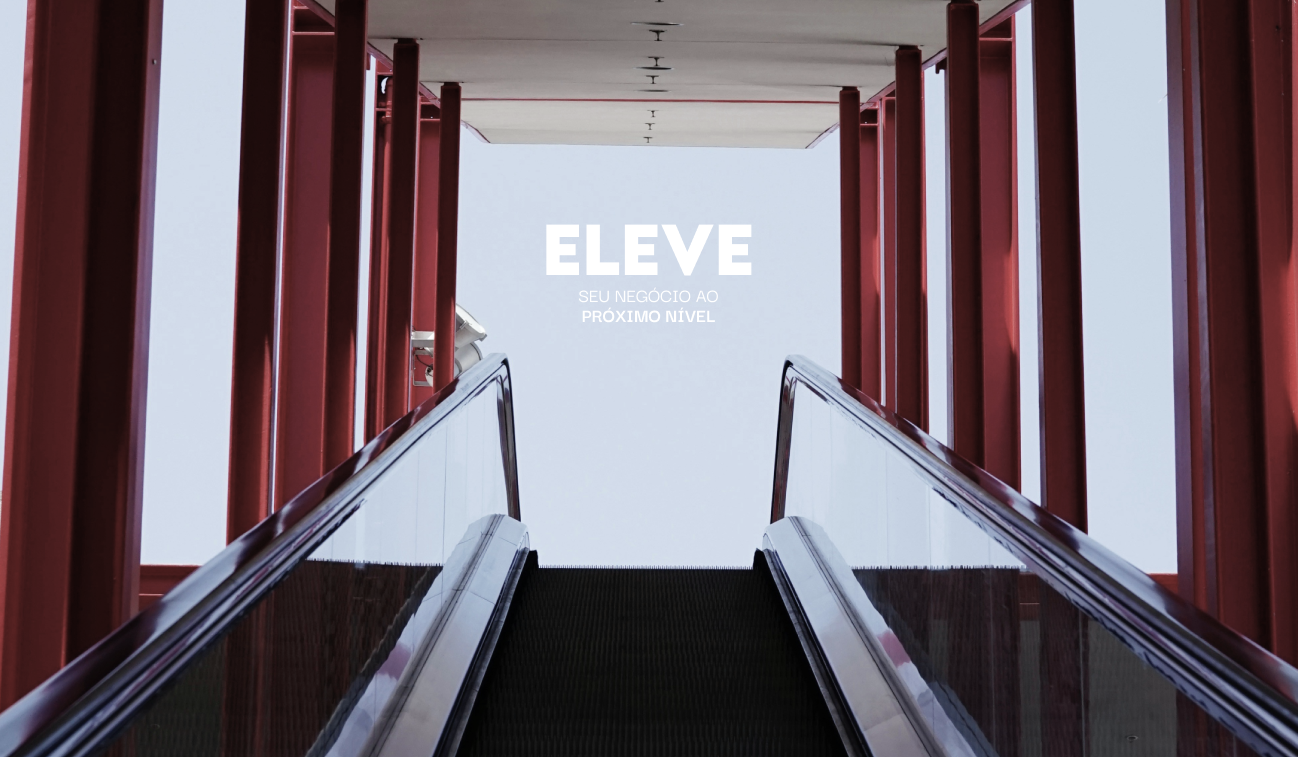
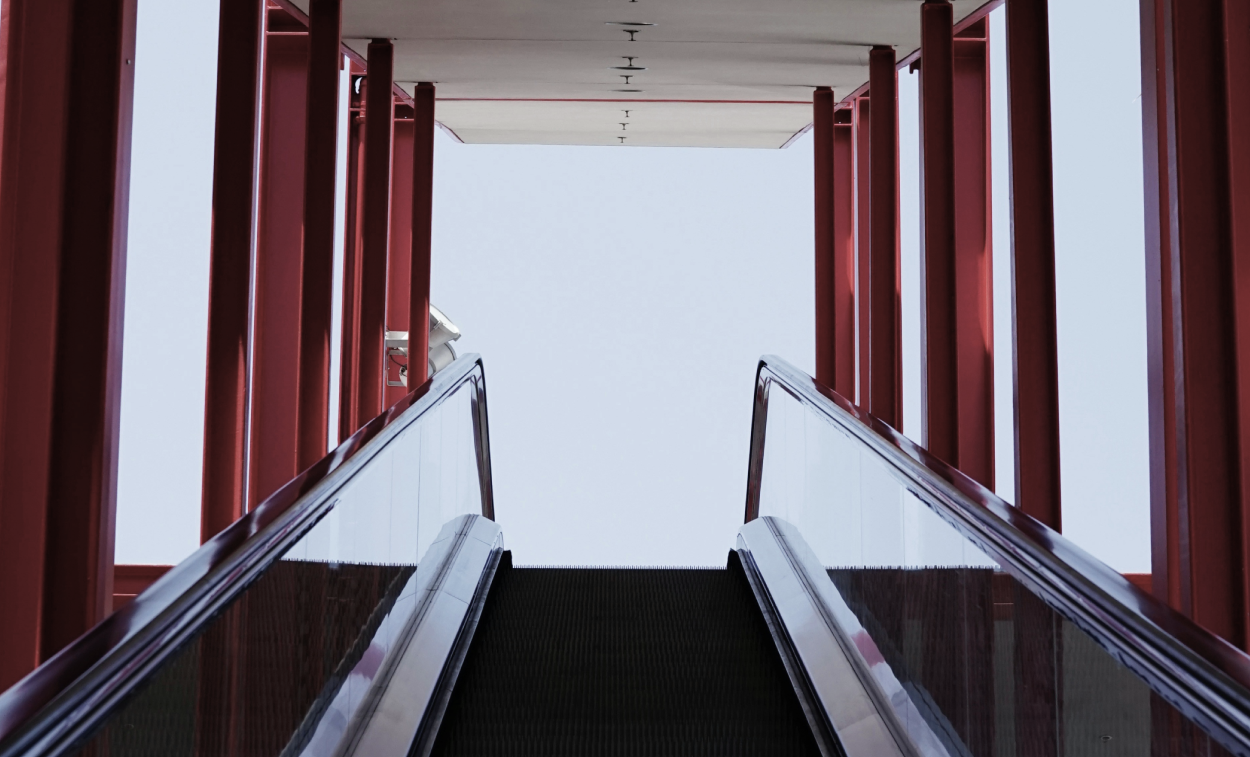
imagem com eleve pronto

diff --git a/vikaro/src/App.js b/vikaro/src/App.js
@@ -5,6 +5,7 @@ import AboutSection from "./components/AboutSection";
 import ProjectSection from "./components/ProjectsSection";
 import Footer from "./components/Footer";
 import ServicesSection from "./components/ServicesSection";
+import StairsSection from "./components/StairsSection";
 
 
 function App() {
@@ -12,6 +13,7 @@ function App() {
     <div className="App bg-black">
       <Header/>
       <MainSection/>
+      <StairsSection></StairsSection>
       <BigVikaro></BigVikaro>
       <AboutSection></AboutSection>
       <ServicesSection></ServicesSection>

diff --git a/vikaro/src/components/StairsSection/index.js b/vikaro/src/components/StairsSection/index.js
@@ -1,0 +1,14 @@
+
+
+const StairsSection = () => {
+    return (
+        <div className="text-white w-full h-screen px-6 flex pb-6 bg-custom-stairs bg-no-repeat bg-cover flex flex-col items-center">
+            <div className="flex flex-col gap-2 h-3/4 justify-center">
+                <h2 className="font-lemon font-medium text-6xl">ELEVE</h2>
+                <p className="font-montserrat text-center">SEU NEGÓCIO AO <br></br><strong>PRÓXIMO NÍVEL</strong></p>
+            </div>
+        </div>
+    )
+}
+
+export default StairsSection

diff --git a/vikaro/tailwind.config.js b/vikaro/tailwind.config.js
@@ -13,6 +13,7 @@ module.exports = {
       backgroundImage: {
         'custom-pj-1': "url('/public/img/project-1.png')", // Adicionando imagem de fundo personalizada
         'custom-pj-4': "url('/public/img/project-4.png')", // Adicionando imagem de fundo personalizada
+        'custom-stairs': "url('/public/img/stairs.png')", // Adicionando imagem de fundo personalizada
       },
     },
   },
